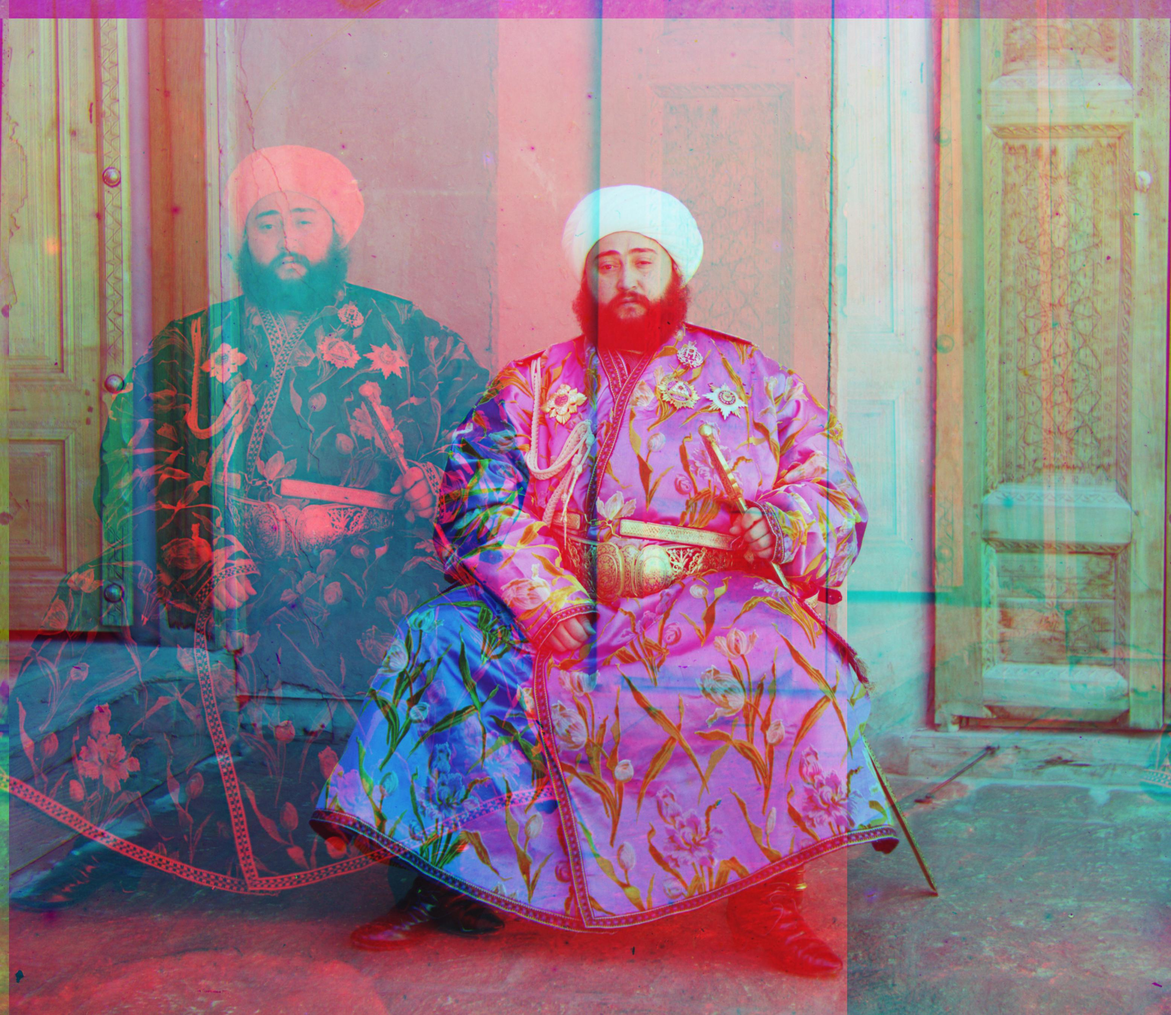
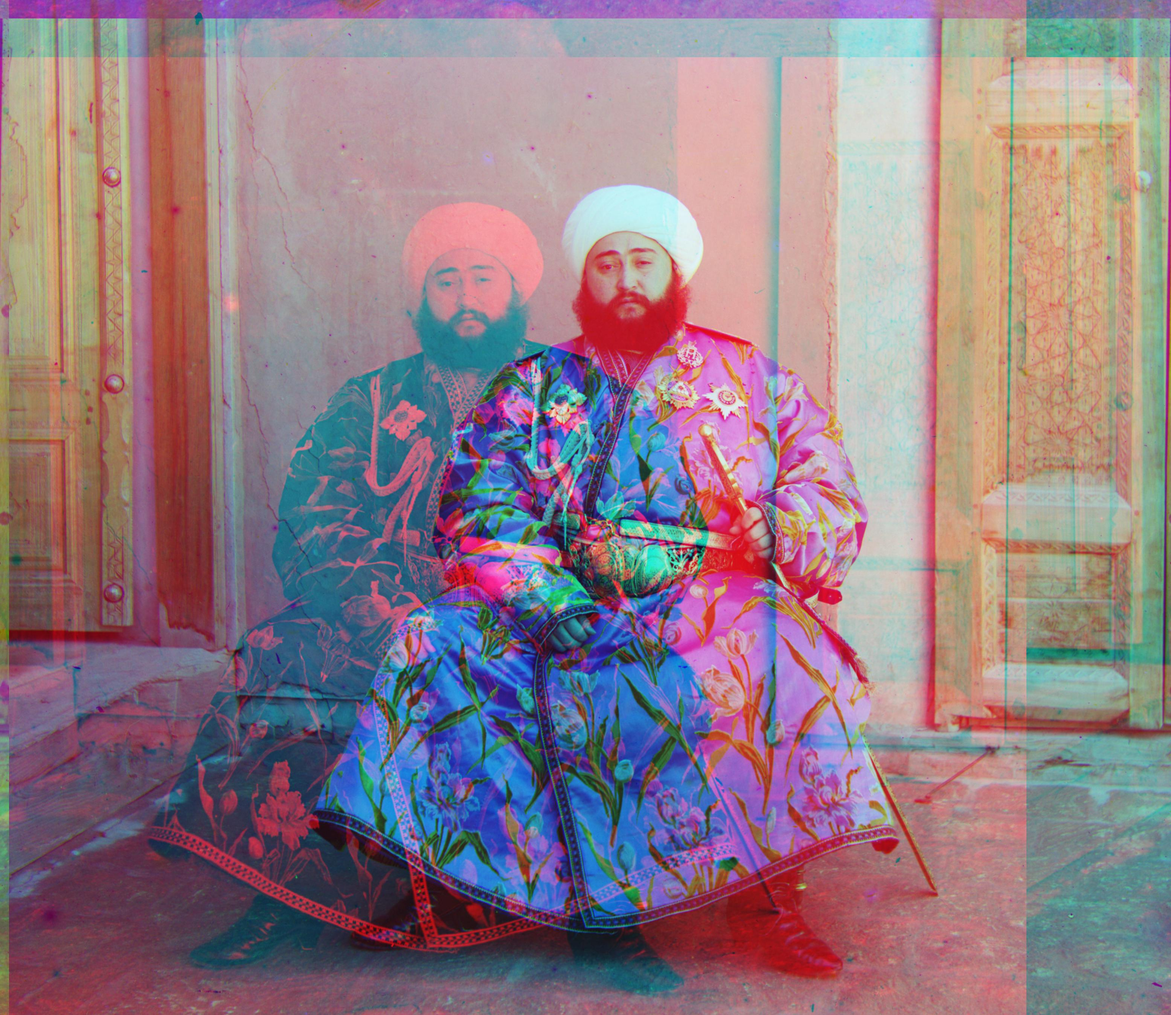
new pyr align per crop images

diff --git a/proj1/index.html b/proj1/index.html
@@ -134,7 +134,7 @@
 <div class="content-item">
     <a class="anchor" id="multi"></a>
     <div class="subheader_left">Multi-scale Alignment</div>
-    <p>While single-scale alignment performs well for small images, it is too expensive for large images. To handle large images, multi-scale alignment was implemented using an image pyramid in the function <span class="code">pyramid_align</span>. For two channels to be aligned, the images are first cropped by a predetermined percentage as in single-scale alignment, and then continually resized by $1/2$ $10$ times or until they reach the base case ($size < 32$); each of these resized images is then stored in the pyramid along with the original. Iterating from coarsest to finest resolution, the images are aligned using single-scale alignment which outputs an offset. The offsets from each level in the pyramid are accumulated into one final offset, accounting for the different scaling factors of each image.</p>
+    <p>While single-scale alignment performs well for small images, it is too expensive for large images. To handle large images, multi-scale alignment was implemented using an image pyramid in the function <span class="code">pyramid_align</span>. For two channels to be aligned, the images are first cropped by a predetermined percentage as in single-scale alignment, and then continually resized by $1/2$ $5$ times or until they reach the base case ($size < 32$); each of these resized images is then stored in the pyramid along with the original. Iterating from coarsest to finest resolution, the images are aligned using single-scale alignment which outputs an offset. The offsets from each level in the pyramid are accumulated into one final offset, accounting for the different scaling factors of each image.</p>
 
     <h4>Low-quality Images (JPG)</h4>
     <table><tr>
